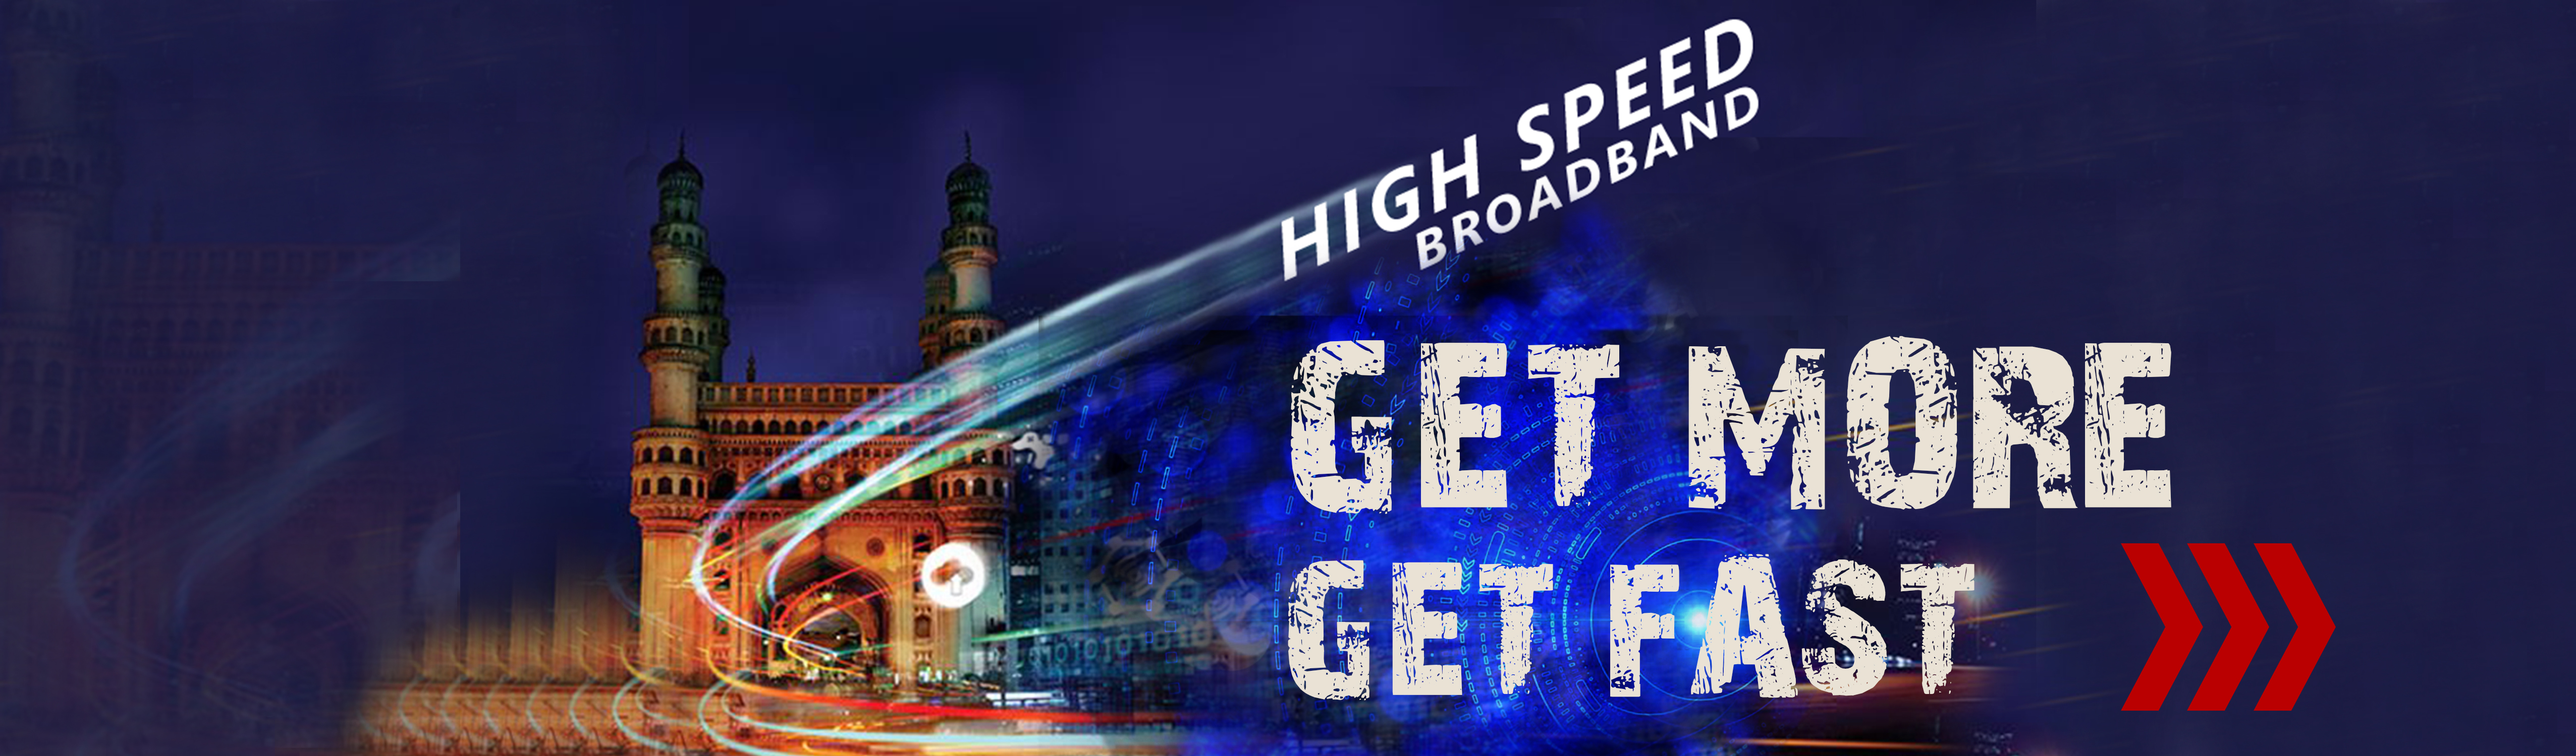
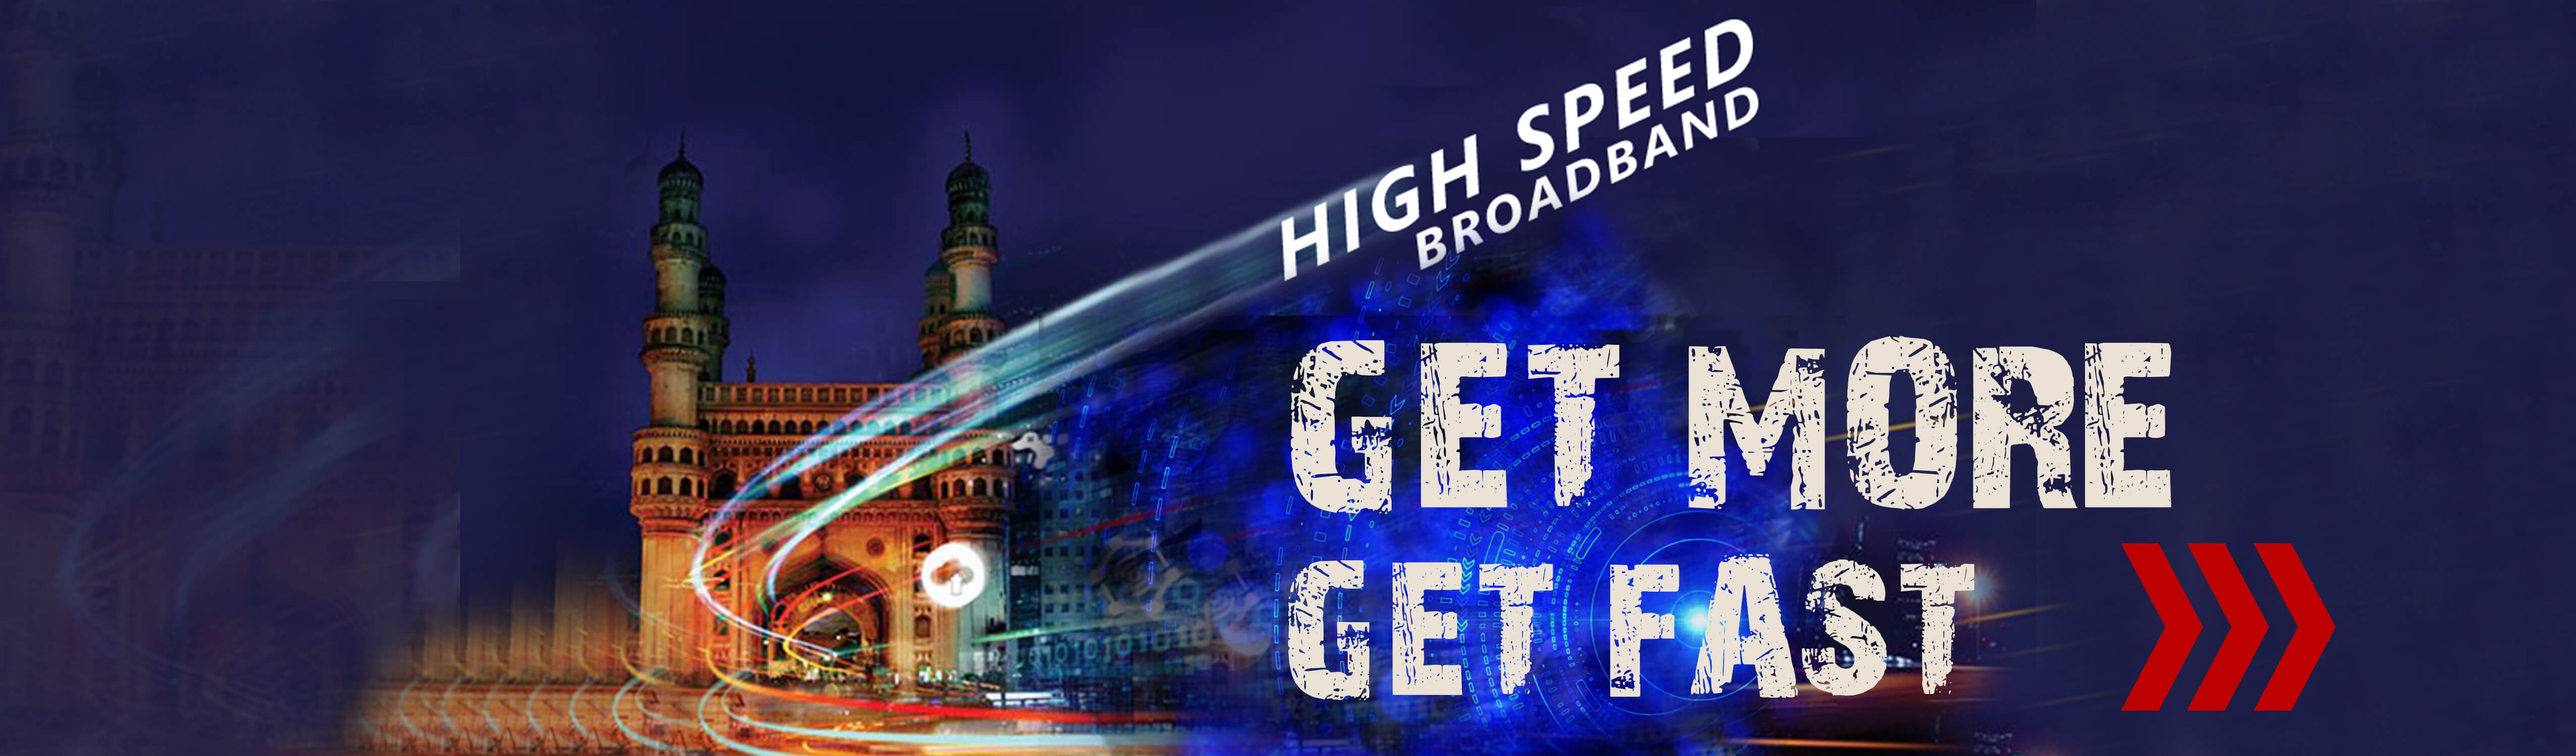
changes

diff --git a/assets/css/material-kit23cd.css b/assets/css/material-kit23cd.css
@@ -11,12 +11,9 @@
  *
  * ========================================================= */
 
-
 /* ANIMATION */
 
-
 /* SHADOWS */
-
 
 /* Shadows (from mdl http://www.getmdl.io/) */
 
@@ -103,7 +100,6 @@ a .material-icons {
     -ms-transform: rotate(180deg);
     transform: rotate(180deg);
 }
-
 
 /*           Animations              */
 
@@ -5094,7 +5090,6 @@ h2.title {
     text-align: left;
 }
 
-
 /*       Fix bug for IE      */
 
 @media screen and (-ms-high-contrast: active),
@@ -5669,7 +5664,6 @@ hr.on-light {
     padding: 10px 20px;
     width: 100%;
 }
-
 
 /* Theme */
 
@@ -6469,7 +6463,6 @@ select[data-dropdownjs][disabled]+.dropdownjs>input[readonly] {
     border-color: #5897fb;
 }
 
-
 /*
  * bootstrap-tagsinput v0.8.0
  *
@@ -6797,7 +6790,6 @@ select[data-dropdownjs][disabled]+.dropdownjs>input[readonly] {
     margin-bottom: 10px;
 }
 
-
 /*** Navigation ***/
 
 .nbs-flexisel-nav-left,
@@ -7084,7 +7076,7 @@ select[data-dropdownjs][disabled]+.dropdownjs>input[readonly] {
 }
 
 .header-filter::before {
-    background-color: rgba(0, 0, 0, 0.5);
+    background-color: rgba(0, 0, 0, 0);
 }
 
 .header-filter .container {
@@ -7785,7 +7777,6 @@ footer .pull-center {
     border-color: rgba(255, 255, 255, 0.1);
 }
 
-
 /* Functional styling;
  * These styles are required for noUiSlider to function.
  * You don't need to change these rules to apply your design.
@@ -7859,7 +7850,6 @@ footer .pull-center {
     cursor: inherit !important;
 }
 
-
 /* Painting and performance;
  * Browsers can paint handles in their own layer.
  */
@@ -7869,7 +7859,6 @@ footer .pull-center {
     -webkit-transform: translate3d(0, 0, 0);
     transform: translate3d(0, 0, 0);
 }
-
 
 /* Slider size and handle placement;
  */
@@ -7890,7 +7879,6 @@ footer .pull-center {
     top: -17px;
 }
 
-
 /* Styling;
  */
 
@@ -7904,7 +7892,6 @@ footer .pull-center {
     -webkit-transition: background 450ms;
     transition: background 450ms;
 }
-
 
 /* Handles and cursors;
  */
@@ -7946,7 +7933,6 @@ footer .pull-center {
 .noUi-vertical .noUi-handle:after {
     top: 17px;
 }
-
 
 /* Disabled state;
  */
@@ -8013,7 +7999,6 @@ footer .pull-center {
 .slider.slider-rose .noUi-handle {
     border-color: #e91e63;
 }
-
 
 /*!
  * Datetimepicker for Bootstrap 3
@@ -8412,7 +8397,6 @@ footer .pull-center {
     z-index: 1;
     cursor: pointer;
 }
-
 
 /*!
  * Bootstrap-select v1.11.2 (http://silviomoreto.github.io/bootstrap-select)
@@ -10050,7 +10034,6 @@ select.selectpicker {
     background-position: 0px 30px;
 }
 
-
 /* Mobile Menu*/
 
 .navbar .navbar-toggle .icon-bar {
@@ -10060,7 +10043,6 @@ select.selectpicker {
 .navbar .in {
     box-shadow: 0 16px 24px 2px rgba(0, 0, 0, 0.14), 0 6px 30px 5px rgba(0, 0, 0, 0.12), 0 8px 10px -5px rgba(0, 0, 0, 0.2);
 }
-
 
 /* .header-filter::before{
     back
@@ -10251,7 +10233,7 @@ select.selectpicker {
 
 .banner-filter:before,
 .banner-filter:after {
-    background-color: rgba(0, 0, 0, 0.78);
+    background-color: rgba(0, 0, 0, 0.2);
 }
 
 .color-white {
@@ -10320,6 +10302,25 @@ select.selectpicker {
 .mb-30 {
     margin-bottom: 30px;
 }
-.mb-20{
-    margin-bottom:20px;
+
+.mb-20 {
+    margin-bottom: 20px;
+}
+
+.scrollToTop {
+    margin: 30px 37px;
+    text-align: center;
+    text-decoration: none;
+    position: fixed;
+    bottom: 0;
+    right: 0;
+    display: none;
+    padding: 8px 12px;
+    background-color: #49C5B6;
+    border-radius: 50%;
+    color: #000000;
+}
+
+.scrollToTop:hover {
+    text-decoration: none;
 }

diff --git a/assets/js/angular-main.js b/assets/js/angular-main.js
@@ -735,9 +735,9 @@ app.controller('BroadbandController', function ($scope, $timeout, $rootScope) {
             {
                 'category': 'Unlimited Plans',
                 'plans': [
-                    { 'speed': '2 Mbps', 'month_variation': [{ 'validity': '12 months + 6 Months Free', 'price': 7000 }] },
-                    { 'speed': '3 Mbps', 'month_variation': [{ 'validity': '12 months + 8 Months free', 'price': 11500 }, { 'validity': '6 months + 1 Month free', 'price': 6200 }] },
-                    { 'speed': '5 Mbps', 'month_variation': [{ 'validity': '12 months + 8 Months free', 'price': 14000 }, { 'validity': '6 months + 1 Month free', 'price': 7500 }] },
+                    { 'speed': '2 Mbps', 'month_variation': [{ 'validity': '12 + 6 Months Free', 'price': 7000 }] },
+                    { 'speed': '3 Mbps', 'month_variation': [{ 'validity': '12 + 8 Months free', 'price': 11500 }, { 'validity': '6 + 1 Month free', 'price': 6200 }] },
+                    { 'speed': '5 Mbps', 'month_variation': [{ 'validity': '12 + 8 Months free', 'price': 14000 }, { 'validity': '6 + 1 Month free', 'price': 7500 }] },
                 ]
             },
             {
@@ -992,4 +992,29 @@ app.controller('FAQController', function ($scope, $rootScope) {
             ans: 'Get in touch with your local DL GTPL office/Local cable operator and inform them of your new location. They will revert on the feasibility and transfer the STB to your new location provided all dues are cleared. If the feasibility is negative, you will have to go in for a new service provider, whichever is available in that area. If the STB has been availed on rental basis, the refund will be processed upon surrendering the same.'
         }
     ]
+});
+// see http://stackoverflow.com/q/35950735/145346
+jQuery(document).ready(function ($) {
+
+    var visible = false;
+    //Check to see if the window is top if not then display button
+    $(window).scroll(function () {
+        var scrollTop = $(this).scrollTop();
+        if (!visible && scrollTop > 100) {
+            $(".scrollToTop").fadeIn();
+            visible = true;
+        } else if (visible && scrollTop <= 100) {
+            $(".scrollToTop").fadeOut();
+            visible = false;
+        }
+    });
+
+    //Click event to scroll to top
+    $(".scrollToTop").click(function () {
+        $("html, body").animate({
+            scrollTop: 0
+        }, 800);
+        return false;
+    });
+
 });

diff --git a/application/views/header.php b/application/views/header.php
@@ -1,11 +1,11 @@
 <!doctype html>
-<html lang="en" ng-app="dlgtpl">
+<html lang="en" ng-app="dlgtpl" ng-clock="">
 
 <head>
 	<meta charset="utf-8" />
 	<!-- <base href="./"> -->
-	<link rel="apple-touch-icon" sizes="76x76" href="<?php echo base_url();?>assets/img/apple-icon.png">
-	<link rel="icon" type="image/png" href="<?php echo base_url();?>assets/img/favicon.png">
+	<link rel="apple-touch-icon" sizes="76x76" href="<?php echo base_url(); ?>assets/img/apple-icon.png">
+	<link rel="icon" type="image/png" href="<?php echo base_url(); ?>assets/img/favicon.png">
 	<meta http-equiv="X-UA-Compatible" content="IE=edge,chrome=1" />
 	<title>DLGTPL</title>
 	<meta content='width=device-width, initial-scale=1.0, maximum-scale=1.0, user-scalable=0' name='viewport' />
@@ -17,12 +17,12 @@
 	<link rel="stylesheet" href="https://maxcdn.bootstrapcdn.com/font-awesome/latest/css/font-awesome.min.css" />
 
 	<!-- CSS Files -->
-	<link href="<?php echo base_url();?>assets/css/bootstrap.min.css" rel="stylesheet" />
-	<link href="<?php echo base_url();?>assets/css/material-kit23cd.css?v=1.2.1" rel="stylesheet" />
+	<link href="<?php echo base_url(); ?>assets/css/bootstrap.min.css" rel="stylesheet" />
+	<link href="<?php echo base_url(); ?>assets/css/material-kit23cd.css?v=1.2.1" rel="stylesheet" />
 
 	<!-- <link href="assets-for-demo/demo.css" rel="stylesheet" /> -->
-	<script src="<?php echo base_url();?>assets/js/angular.min.js" type="text/javascript"></script>
-	<script src="<?php echo base_url();?>assets/js/angular-route.min.js" type="text/javascript"></script>
+	<script src="<?php echo base_url(); ?>assets/js/angular.min.js" type="text/javascript"></script>
+	<script src="<?php echo base_url(); ?>assets/js/angular-route.min.js" type="text/javascript"></script>
 </head>
 <body class="{{bodyClass}}" id="{{bodyClass}}">
 	<nav class="navbar  navbar-fixed-top" style="height:80px;">
@@ -36,7 +36,7 @@
 					<span class="icon-bar"></span>
 				</button>
 				<a class="navbar-brand" ng-href="/">
-					<img src="<?php echo base_url();?>assets/img/logo/dlgtpl-logo.png">
+					<img src="<?php echo base_url(); ?>assets/img/logo/dlgtpl-logo.png">
 				</a>
 			</div>
 			<div class="collapse navbar-collapse" id="navigation-example">

diff --git a/application/views/footer.php b/application/views/footer.php
@@ -78,7 +78,7 @@
 						<h5>Customer Application Form</h5>
 						<ul class="links-vertical">
 							<li>
-								<a href="<?php echo base_url();?>assets/documents/catv.pdf" target="_blank">
+								<a href="<?php echo base_url(); ?>assets/documents/catv.pdf" target="_blank">
 									<i class="fa fa-file-pdf-o fa-2x" style="color:rgb(124, 53, 53);padding-right:5px;"></i> Download
 								</a>
 							</li>
@@ -157,16 +157,22 @@
 			<span style="font-size:12px; ">New Connection</span>
 		</a>
     </div>
-    <?php 
-    include_once('modals/new-connection-modal.html');
-    include_once('modals/upgrade-hd-modal.html');
-    ?>
+    <?php
+include_once 'modals/new-connection-modal.html';
+include_once 'modals/upgrade-hd-modal.html';
+?>
+
+
+
+
+
+<a href="#" class="scrollToTop " style="display: none;"><i class="	fa fa-arrow-up"></i></a>
 </body>
 <!--   Core JS Files   -->
-<script src="<?php echo base_url();?>assets/js/jquery.min.js" type="text/javascript"></script>
-<script src="<?php echo base_url();?>assets/js/bootstrap.min.js" type="text/javascript"></script>
-<script src="<?php echo base_url();?>assets/js/material.min.js"></script>
-<script src="<?php echo base_url();?>assets/js/bootstrap-tagsinput.js"></script>
-<script src="<?php echo base_url();?>assets/js/material-kit23cd.js?v=1.2.1" type="text/javascript"></script>
-<script src="<?php echo base_url();?>assets/js/angular-main.js"></script>
+<script src="<?php echo base_url(); ?>assets/js/jquery.min.js" type="text/javascript"></script>
+<script src="<?php echo base_url(); ?>assets/js/bootstrap.min.js" type="text/javascript"></script>
+<script src="<?php echo base_url(); ?>assets/js/material.min.js"></script>
+<script src="<?php echo base_url(); ?>assets/js/bootstrap-tagsinput.js"></script>
+<script src="<?php echo base_url(); ?>assets/js/material-kit23cd.js?v=1.2.1" type="text/javascript"></script>
+<script src="<?php echo base_url(); ?>assets/js/angular-main.js"></script>
 </html>

diff --git a/application/views/broadband/view-plans.php b/application/views/broadband/view-plans.php
@@ -90,9 +90,12 @@
                                 <div ng-if="plan.month_variation.length > 0">
                                     <span>
                                         <b>Select Month</b>
-                                    </span>
+                                    </span><br/>
+                                    <div style="    padding: 12px 0px;">
                                     <span class="label  {{monthVariation.active ? 'label-broadband' : 'label-default'}}" ng-click="vm.changMonth(plan, monthVariation)"
                                         ng-repeat="monthVariation in plan.month_variation">{{monthVariation.validity}}</span>
+                                    </div>
+
                                 </div>
                                 <a ng-click="vm.getPlan(plan)" class="get-now-broadband btn btn-primary btn-round" style="background-color:{{vm.colors[$index]}}">
                                     Get Now

diff --git a/application/views/television/dlgtpl-channels.php b/application/views/television/dlgtpl-channels.php
@@ -3,7 +3,7 @@
     <div class="container">
         <div class="row">
             <div class="col-md-6">
-                <h1 class="title">DLGPL CHANNELS</h1>
+                <h1 class="title">DLGTPL CHANNELS</h1>
                 <h4 class="sub-title">Brings entertainment to your home with our wide range of local channels</h4>
             </div>
         </div>
